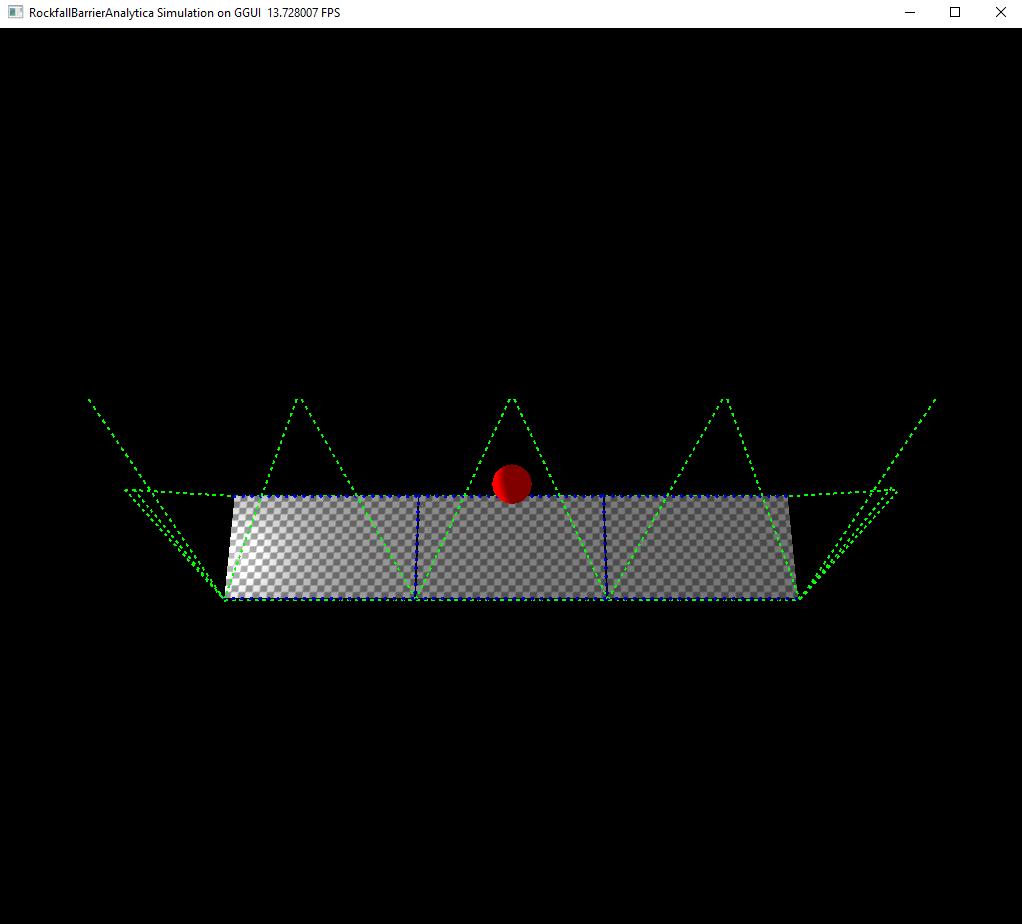
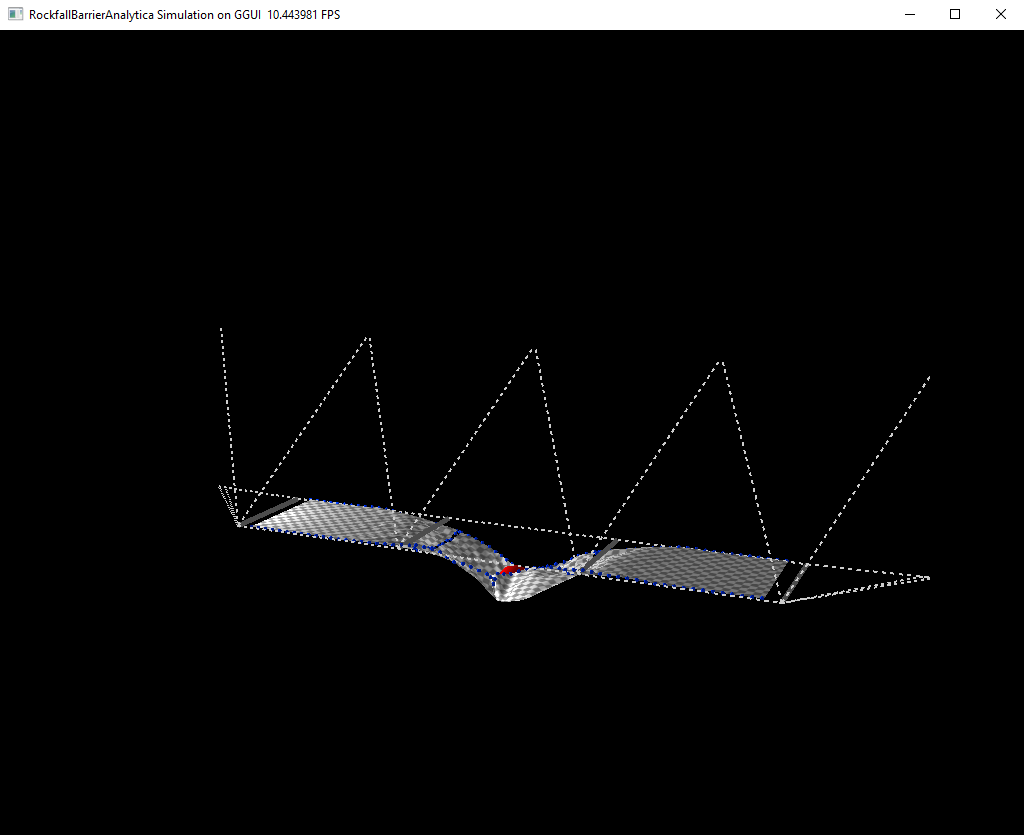
Rope - posts interaction logic

diff --git a/main.py b/main.py
@@ -268,7 +268,7 @@ while window.running:
 
     update_vertices()
 
-    camera.position(20, 10, 30) #20, 10, 40
+    camera.position(7.5, 25, 15) #20, 10, 40
     camera.lookat(7.5, 0.0, 1.5) #7.5, 0.0, 1.5
     scene.set_camera(camera)
 
